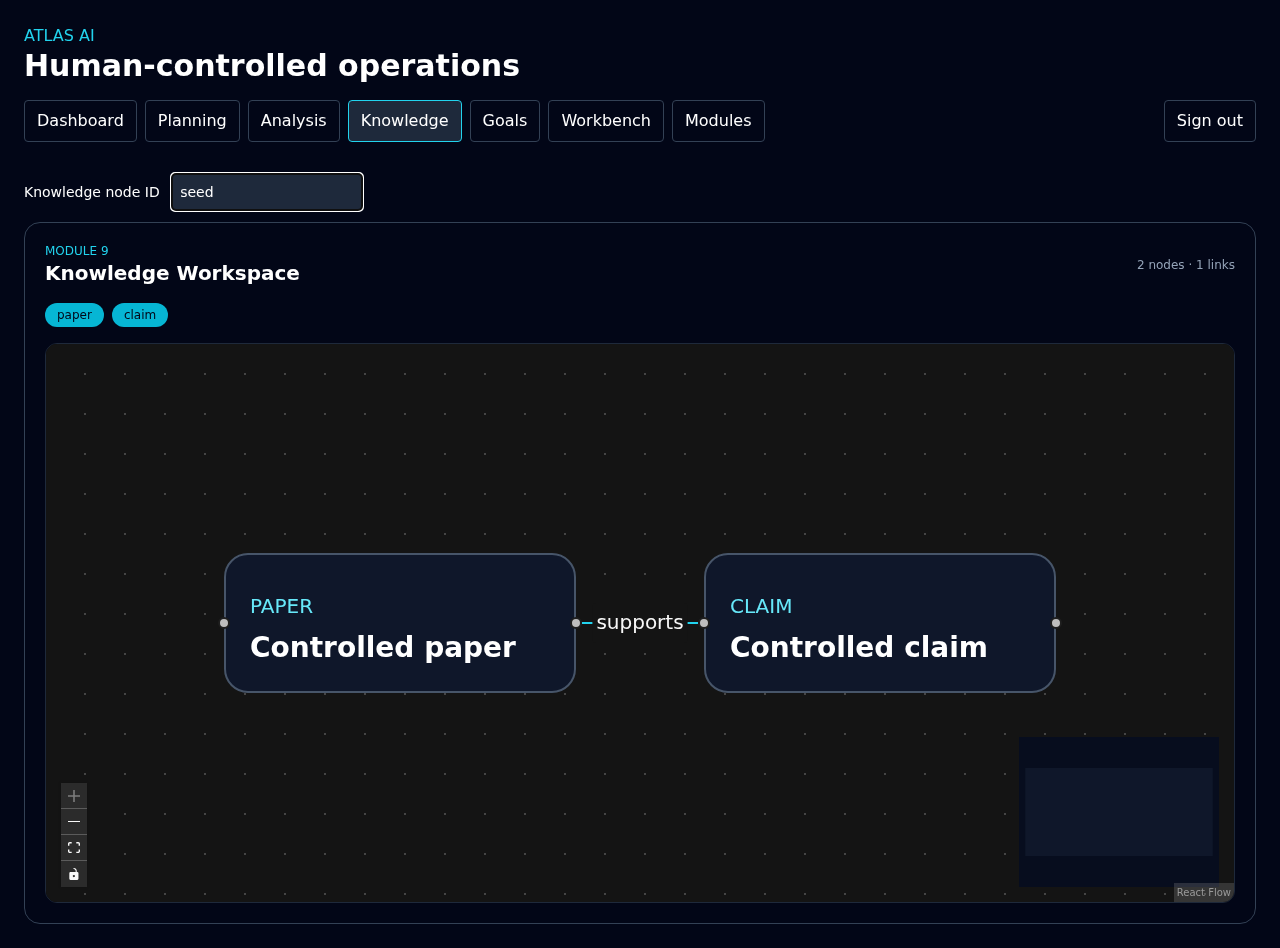
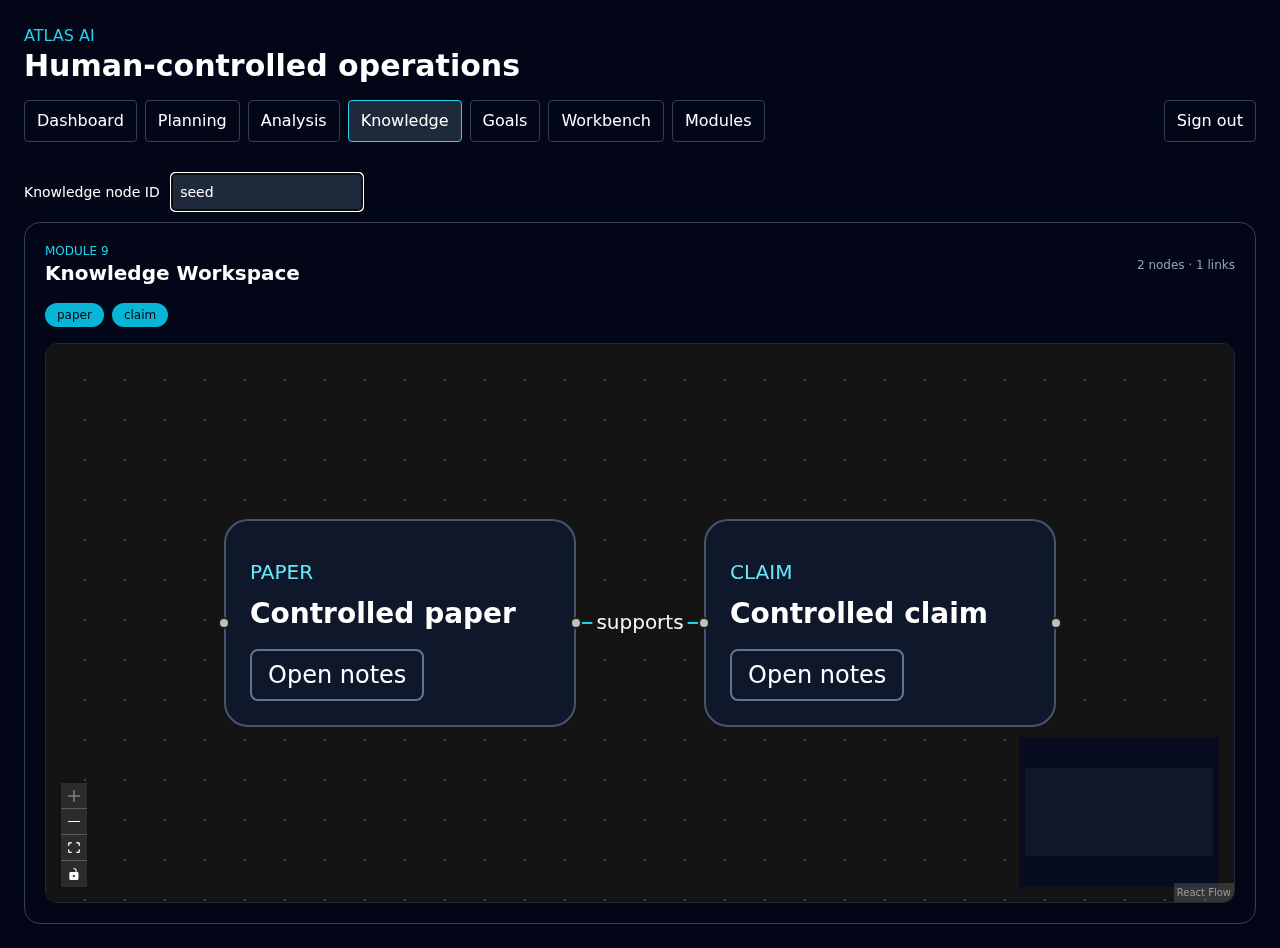
Add keyboard node-note activation and restore focus to its actual trigger

Changed region(s): [[0.5625, 0.5812, 0.7812, 0.7342], [0.1875, 0.5812, 0.4062, 0.7342]]

diff --git a/frontend/components/KnowledgeWorkspace.tsx b/frontend/components/KnowledgeWorkspace.tsx
@@ -1,22 +1,24 @@
 "use client";
-import {useEffect,useMemo,useState} from "react";
+import {useEffect,useMemo,useState,useRef} from "react";
 import {Dialog,DialogContent,DialogTitle,DialogDescription} from "./ui/dialog";
 import {authFetch} from "../lib/supabase";
 import {Background,Controls,Handle,MiniMap,Position,ReactFlow,type Edge as FlowEdge,type Node as FlowNode} from "@xyflow/react";
 import "@xyflow/react/dist/style.css";
 type GraphNode={id:string;node_type:string;title:string;body?:string;metadata:Record<string,unknown>};
 type GraphEdge={id:string;source_id:string;target_id:string;relationship:string;confidence:number};
-function Card({data}:{data:any}){return <div className="min-w-44 rounded-xl border border-slate-600 bg-slate-900 p-3 text-white"><Handle type="target" position={Position.Left}/><span className="text-[10px] uppercase text-cyan-300">{data.node_type}</span><strong className="block text-sm">{data.title}</strong><Handle type="source" position={Position.Right}/></div>}
+function Card({data}:{data:any}){return <div className="min-w-44 rounded-xl border border-slate-600 bg-slate-900 p-3 text-white"><Handle type="target" position={Position.Left}/><span className="text-[10px] uppercase text-cyan-300">{data.node_type}</span><strong className="block text-sm">{data.title}</strong><button className="mt-2 rounded border border-slate-500 px-2 py-1 text-xs" aria-label={`Open notes for ${data.title}`} onClick={event=>data.openNotes(event.currentTarget)}>Open notes</button><Handle type="source" position={Position.Right}/></div>}
 const nodeTypes={card:Card};
 export default function KnowledgeWorkspace({seedId,apiBase="/api/v1"}:{seedId:string;apiBase?:string}){
  const [nodes,setNodes]=useState<GraphNode[]>([]),[edges,setEdges]=useState<GraphEdge[]>([]),[types,setTypes]=useState<Set<string>>(new Set()),[selected,setSelected]=useState<GraphNode|null>(null),[error,setError]=useState("");
  useEffect(()=>{authFetch(`${apiBase}/knowledge-workspace/nodes/${seedId}/neighborhood?depth=2`).then(r=>{if(!r.ok)throw Error("Could not load graph");return r.json()}).then(d=>{setNodes(d.nodes);setEdges(d.edges);setTypes(new Set(d.nodes.map((n:GraphNode)=>n.node_type)))}).catch(e=>setError(e.message))},[seedId,apiBase]);
+ const initiatingNode=useRef<HTMLElement|null>(null);
+ function openNotes(node:GraphNode,element:HTMLElement|null){initiatingNode.current=element;setSelected(node)}
  const shown=useMemo(()=>nodes.filter(n=>types.has(n.node_type)),[nodes,types]),visible=new Set(shown.map(n=>n.id));
- const flowNodes:FlowNode[]=shown.map((n,i)=>({id:n.id,type:"card",data:n,position:{x:(i%4)*240,y:Math.floor(i/4)*140}}));
+ const flowNodes:FlowNode[]=shown.map((n,i)=>({id:n.id,type:"card",data:{...n,openNotes:(element:HTMLElement)=>openNotes(n,element)},position:{x:(i%4)*240,y:Math.floor(i/4)*140}}));
  const flowEdges:FlowEdge[]=edges.filter(e=>visible.has(e.source_id)&&visible.has(e.target_id)).map(e=>({id:e.id,source:e.source_id,target:e.target_id,label:e.relationship,animated:e.confidence<1,style:{stroke:"#22d3ee"}}));
  function toggle(t:string){setTypes(old=>{const n=new Set(old);n.has(t)?n.delete(t):n.add(t);return n})}
  return <section className="rounded-2xl border border-slate-700 bg-slate-950 p-5 text-white" aria-label="Knowledge graph"><header className="flex items-center justify-between"><div><p className="text-xs text-cyan-400">MODULE 9</p><h2 className="text-xl font-semibold">Knowledge Workspace</h2></div><p className="text-xs text-slate-400">{shown.length} nodes · {flowEdges.length} links</p></header>
  {error&&<p role="alert" className="mt-4 text-red-300">{error}</p>}<div className="mt-4 flex flex-wrap gap-2">{[...new Set(nodes.map(n=>n.node_type))].map(t=><button key={t} aria-pressed={types.has(t)} onClick={()=>toggle(t)} className={`rounded-full px-3 py-1 text-xs ${types.has(t)?"bg-cyan-500 text-slate-950":"bg-slate-800"}`}>{t}</button>)}</div>
- <div className="mt-4 h-[560px] overflow-hidden rounded-xl border border-slate-800"><ReactFlow colorMode="dark" nodes={flowNodes} edges={flowEdges} nodeTypes={nodeTypes} fitView onNodeDoubleClick={(_,n)=>setSelected(n.data as GraphNode)}><Background/><MiniMap style={{backgroundColor:"#0f172a"}} nodeColor="#64748b" maskColor="rgba(2, 6, 23, 0.6)"/><Controls/></ReactFlow></div>
- <Dialog open={selected!==null} onOpenChange={open=>{if(!open)setSelected(null)}}><DialogContent><DialogTitle>{selected?.title||"Knowledge node"}</DialogTitle><DialogDescription>Notes from the selected knowledge node. Edits use the versioned API.</DialogDescription><p className="mt-4 whitespace-pre-wrap text-sm text-slate-300">{selected?.body||"No notes"}</p></DialogContent></Dialog></section>
+ <div className="mt-4 h-[560px] overflow-hidden rounded-xl border border-slate-800"><ReactFlow colorMode="dark" nodes={flowNodes} edges={flowEdges} nodeTypes={nodeTypes} fitView onNodeDoubleClick={(event,n)=>openNotes(n.data as GraphNode,(event.target as HTMLElement).closest(".react-flow__node")?.querySelector("button")||null)}><Background/><MiniMap style={{backgroundColor:"#0f172a"}} nodeColor="#64748b" maskColor="rgba(2, 6, 23, 0.6)"/><Controls/></ReactFlow></div>
+ <Dialog open={selected!==null} onOpenChange={open=>{if(!open)setSelected(null)}}><DialogContent onCloseAutoFocus={event=>{event.preventDefault();initiatingNode.current?.focus()}}><DialogTitle>{selected?.title||"Knowledge node"}</DialogTitle><DialogDescription>Notes from the selected knowledge node. Edits use the versioned API.</DialogDescription><p className="mt-4 whitespace-pre-wrap text-sm text-slate-300">{selected?.body||"No notes"}</p></DialogContent></Dialog></section>
 }

diff --git a/frontend/e2e/architecture-render.spec.ts b/frontend/e2e/architecture-render.spec.ts
@@ -27,10 +27,13 @@ test('A02 A03 A05 A06 actual React Tailwind graph and chart with controlled API 
  await expect(graph.locator('.react-flow__edge')).toHaveCount(1);
  await expect(graph.locator('.react-flow__minimap')).toBeVisible();
  await page.screenshot({path:'../audits/rebuild-20261008/source-units/frontend-render/graph.png',fullPage:true});
- await graph.locator('.react-flow__node').filter({hasText:'Controlled paper'}).dblclick();
+ const nodeTrigger=graph.getByRole('button',{name:'Open notes for Controlled paper'});
+ await nodeTrigger.focus();await expect(nodeTrigger).toBeFocused();await page.keyboard.press('Enter');
  await expect(page.getByRole('dialog',{name:'Controlled paper'})).toBeVisible();
  await expect(page.getByText('Fixture evidence',{exact:true})).toBeVisible();
  await page.screenshot({path:'../audits/rebuild-20261008/source-units/frontend-render/dialog.png',fullPage:true});
- await page.keyboard.press('Escape');await expect(page.getByRole('dialog')).toHaveCount(0);
+ await page.keyboard.press('Escape');await expect(page.getByRole('dialog')).toHaveCount(0);await expect(nodeTrigger).toBeFocused();
+ await page.keyboard.press('Space');await expect(page.getByRole('dialog',{name:'Controlled paper'})).toBeVisible();
+ await page.getByRole('button',{name:'Close',exact:true}).click();await expect(nodeTrigger).toBeFocused();
  await graph.getByRole('button',{name:'claim',exact:true}).click();await expect(graph.locator('.react-flow__node')).toHaveCount(1);await expect(graph.locator('.react-flow__edge')).toHaveCount(0);
 });

diff --git a/audits/rebuild-20261008/source-units/frontend-render/A04-keyboard.md b/audits/rebuild-20261008/source-units/frontend-render/A04-keyboard.md
@@ -1,0 +1,13 @@
+# Graph notes keyboard and focus follow-up
+
+The actual node card now includes a native Open notes button. Enter and Space
+open the same dialog; Escape or Close returns focus to that initiating node's
+button. Double-click still opens notes and records the matching button as focus
+return target. No dependence on a standalone DialogTrigger test for this claim.
+
+Actual Chromium journey verifies focused node button -> Enter -> named dialog
+with correct body -> Escape -> same button focused -> Space -> Close -> same
+button focused. Controlled mocked API only. 27 component tests and typecheck
+pass. Current graph screenshot inspected for readable node trigger placement.
+This does not certify all assistive technologies, disappearing nodes or a full
+accessibility audit. Card and dialog remain a scoped component-system increment.
